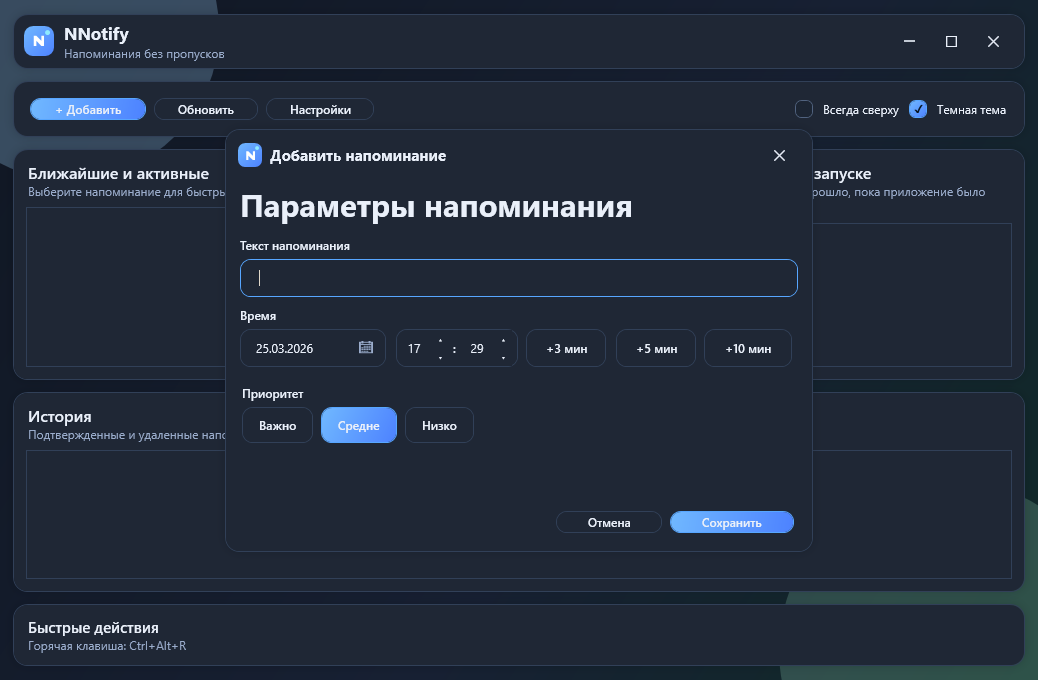
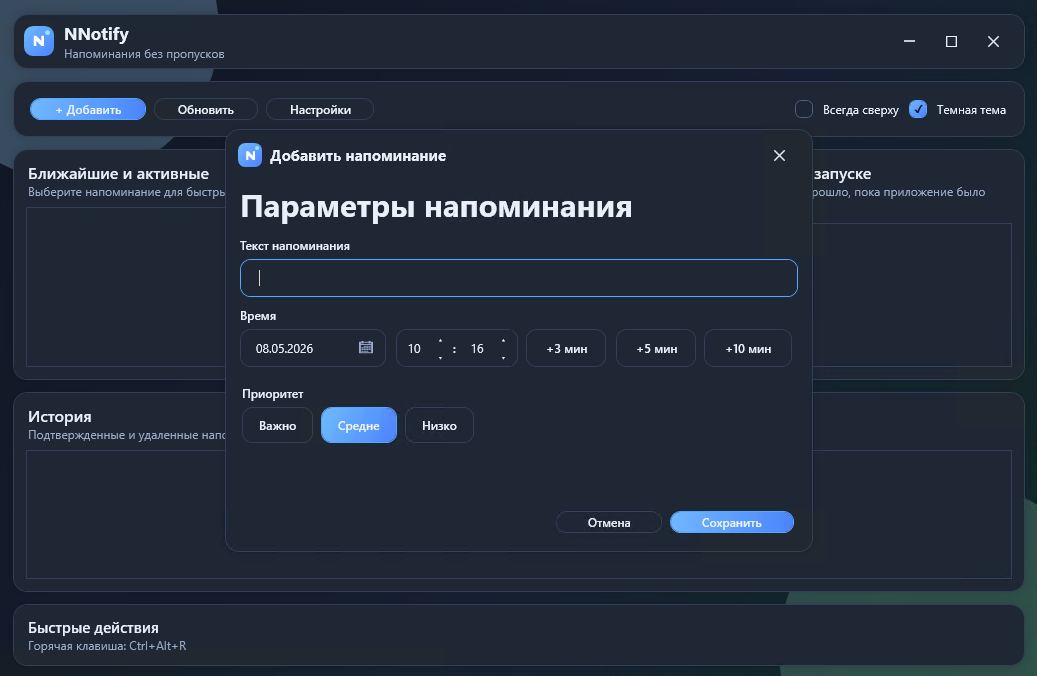
Release NNotify v2.0.0

diff --git a/server/README.md b/server/README.md
@@ -208,6 +208,27 @@ sudo systemctl reload nginx
 ```
 
 <a id="ru-telegram"></a>
+### Telegram Bot Setup
+
+Для серверной части обычно используются два Telegram-бота:
+
+- `TELEGRAM_BOT_TOKEN` — админский бот для подтверждения регистраций и управления пользователями.
+- `REMINDER_TELEGRAM_BOT_TOKEN` — бот, который отправляет пользователям эскалации напоминаний.
+
+Можно использовать одного и того же бота для обеих ролей, но отдельные боты удобнее и безопаснее: админские действия и пользовательские уведомления не смешиваются.
+
+Как создать бота:
+
+1. Откройте `@BotFather` в Telegram.
+2. Выполните `/newbot`.
+3. Задайте имя и username бота.
+4. Скопируйте Bot Token в нужную env-переменную.
+5. Пользователь, которому бот должен писать в личку, должен открыть этого бота и нажать `Start`.
+
+Для Telegram-админки администратор должен нажать `Start` у админского бота.
+
+Для серверной эскалации каждый пользователь должен нажать `Start` у бота напоминаний. Иначе Telegram вернет `Bad Request: chat not found`.
+
 ### Telegram Admin Bot
 
 Если Telegram moderation включен, установите webhook:
@@ -465,6 +486,27 @@ sudo systemctl reload nginx
 ```
 
 <a id="en-telegram"></a>
+### Telegram Bot Setup
+
+The server usually uses two Telegram bots:
+
+- `TELEGRAM_BOT_TOKEN` — admin bot for registration approval and user management.
+- `REMINDER_TELEGRAM_BOT_TOKEN` — reminder bot for user escalation messages.
+
+You can use the same bot for both roles, but separate bots are cleaner and safer: admin actions and user alerts do not mix.
+
+How to create a bot:
+
+1. Open `@BotFather` in Telegram.
+2. Run `/newbot`.
+3. Set the bot name and username.
+4. Copy the Bot Token into the corresponding env variable.
+5. The user who should receive direct messages must open this bot and press `Start`.
+
+For the Telegram admin panel, the administrator must press `Start` in the admin bot.
+
+For server-side reminder escalation, each user must press `Start` in the reminder bot. Otherwise Telegram returns `Bad Request: chat not found`.
+
 ### Telegram Admin Bot
 
 If Telegram moderation is enabled, set webhook:
@@ -515,3 +557,4 @@ sudo -u nnotifysvc -H bash -lc 'set -a; source /etc/nnotify/nnotify-auth.env; se
 SQLite is acceptable for small private deployments, for example around 20 users and a few devices per user.
 
 If the system grows into heavy concurrent write traffic, PostgreSQL would be the next reasonable step.
+

diff --git a/README.md b/README.md
@@ -81,6 +81,18 @@ NNotify поддерживает два варианта Telegram-эскалац
 
 Для личных сообщений пользователь должен открыть соответствующего Telegram-бота и нажать `Start`. Это ограничение Telegram Bot API: бот не может написать пользователю первым.
 
+#### Как подготовить Telegram-бота
+
+1. Откройте `@BotFather` в Telegram.
+2. Выполните команду `/newbot` и создайте бота.
+3. Скопируйте выданный Bot Token.
+4. Для локальной эскалации вставьте token в настройки клиента.
+5. Для серверной эскалации администратор сервера указывает token в `REMINDER_TELEGRAM_BOT_TOKEN`.
+6. Пользователь, которому должны приходить личные уведомления, обязан открыть этого бота и нажать `Start`.
+7. В клиенте укажите Telegram User ID в поле `ID пользователя для оповещений`.
+
+Если `Start` не нажать, Telegram вернет ошибку `Bad Request: chat not found`, и сервер не сможет отправить личное сообщение.
+
 Формат серверного сообщения:
 
 ```text
@@ -247,6 +259,18 @@ NNotify supports two Telegram escalation modes:
 
 For direct messages, the user must open the corresponding Telegram bot and press `Start`. This is a Telegram Bot API limitation: bots cannot start conversations with users first.
 
+#### How to Prepare a Telegram Bot
+
+1. Open `@BotFather` in Telegram.
+2. Run `/newbot` and create a bot.
+3. Copy the generated Bot Token.
+4. For local escalation, paste the token into the desktop client settings.
+5. For server-side escalation, the server administrator sets the token in `REMINDER_TELEGRAM_BOT_TOKEN`.
+6. The user who should receive direct alerts must open this bot and press `Start`.
+7. In the desktop client, fill Telegram User ID in `User ID for alerts`.
+
+If `Start` is not pressed, Telegram returns `Bad Request: chat not found`, and the server cannot send a direct message.
+
 Server message format:
 
 ```text
@@ -333,3 +357,4 @@ Deployment guide:
 ```text
 server/README.md
 ```
+
